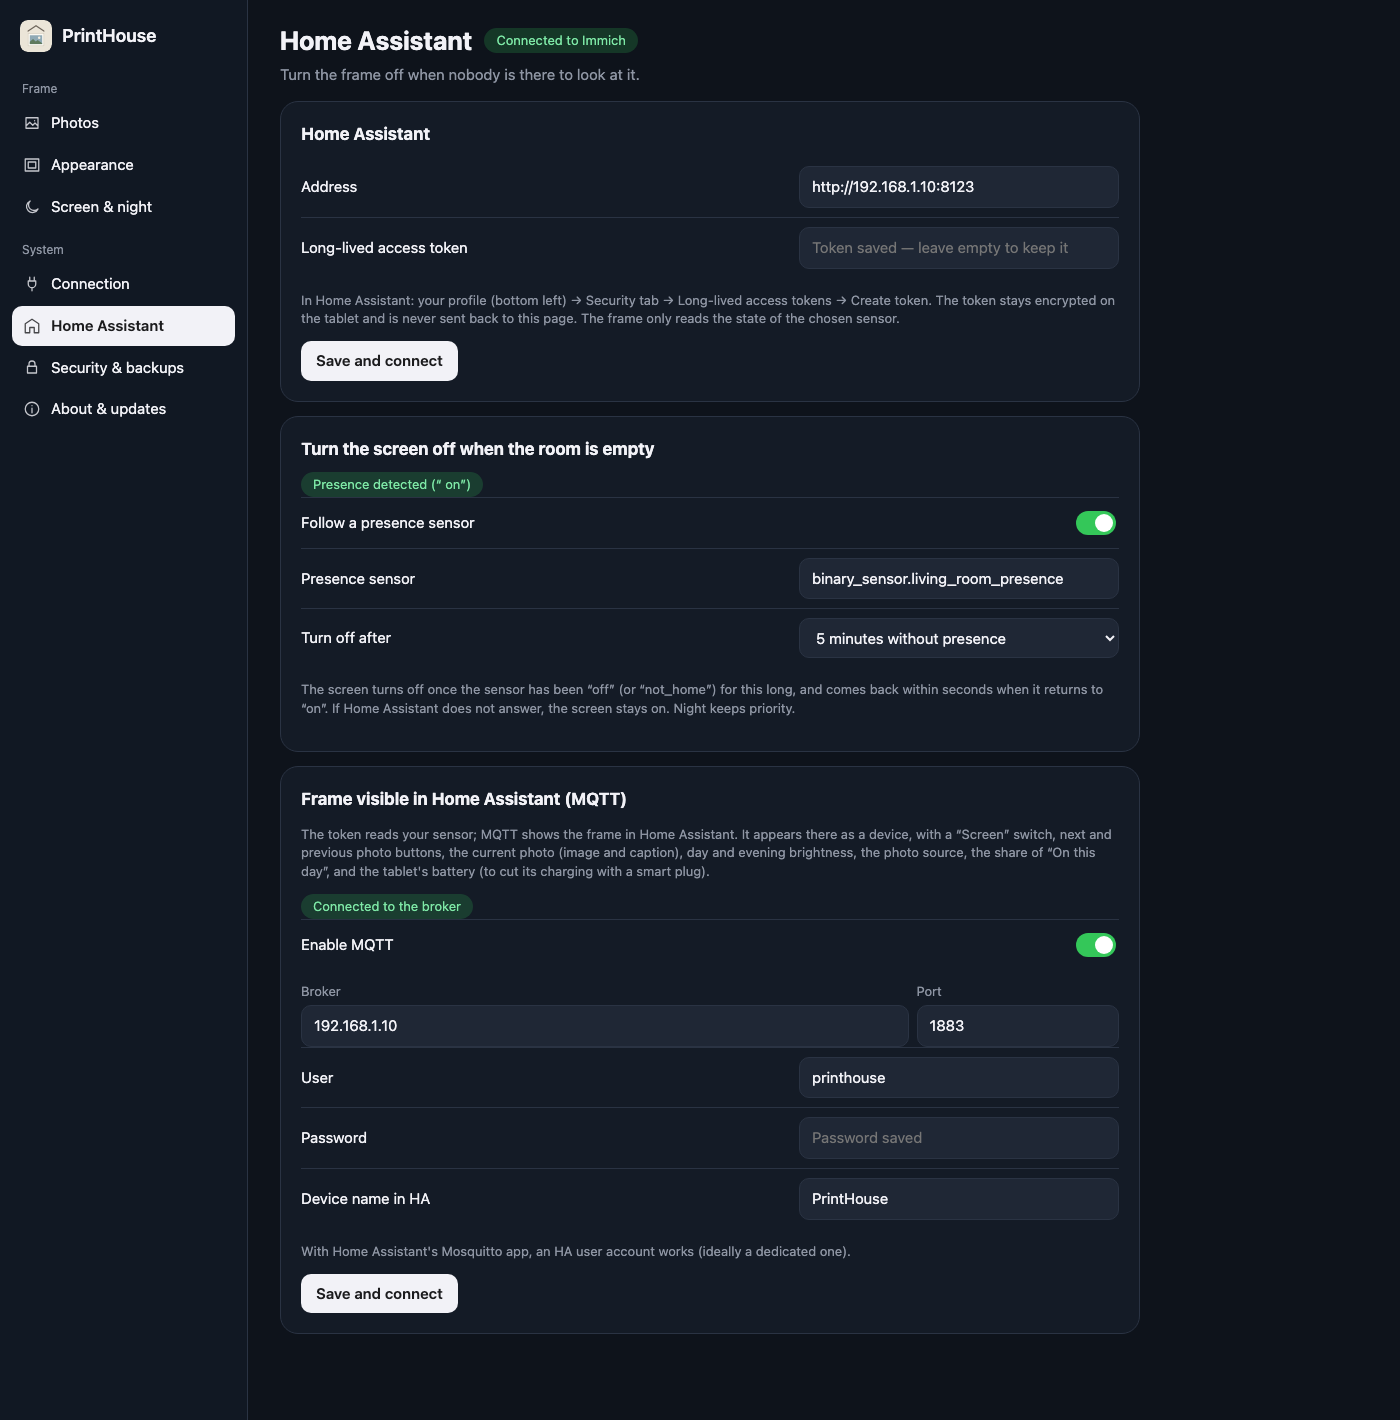
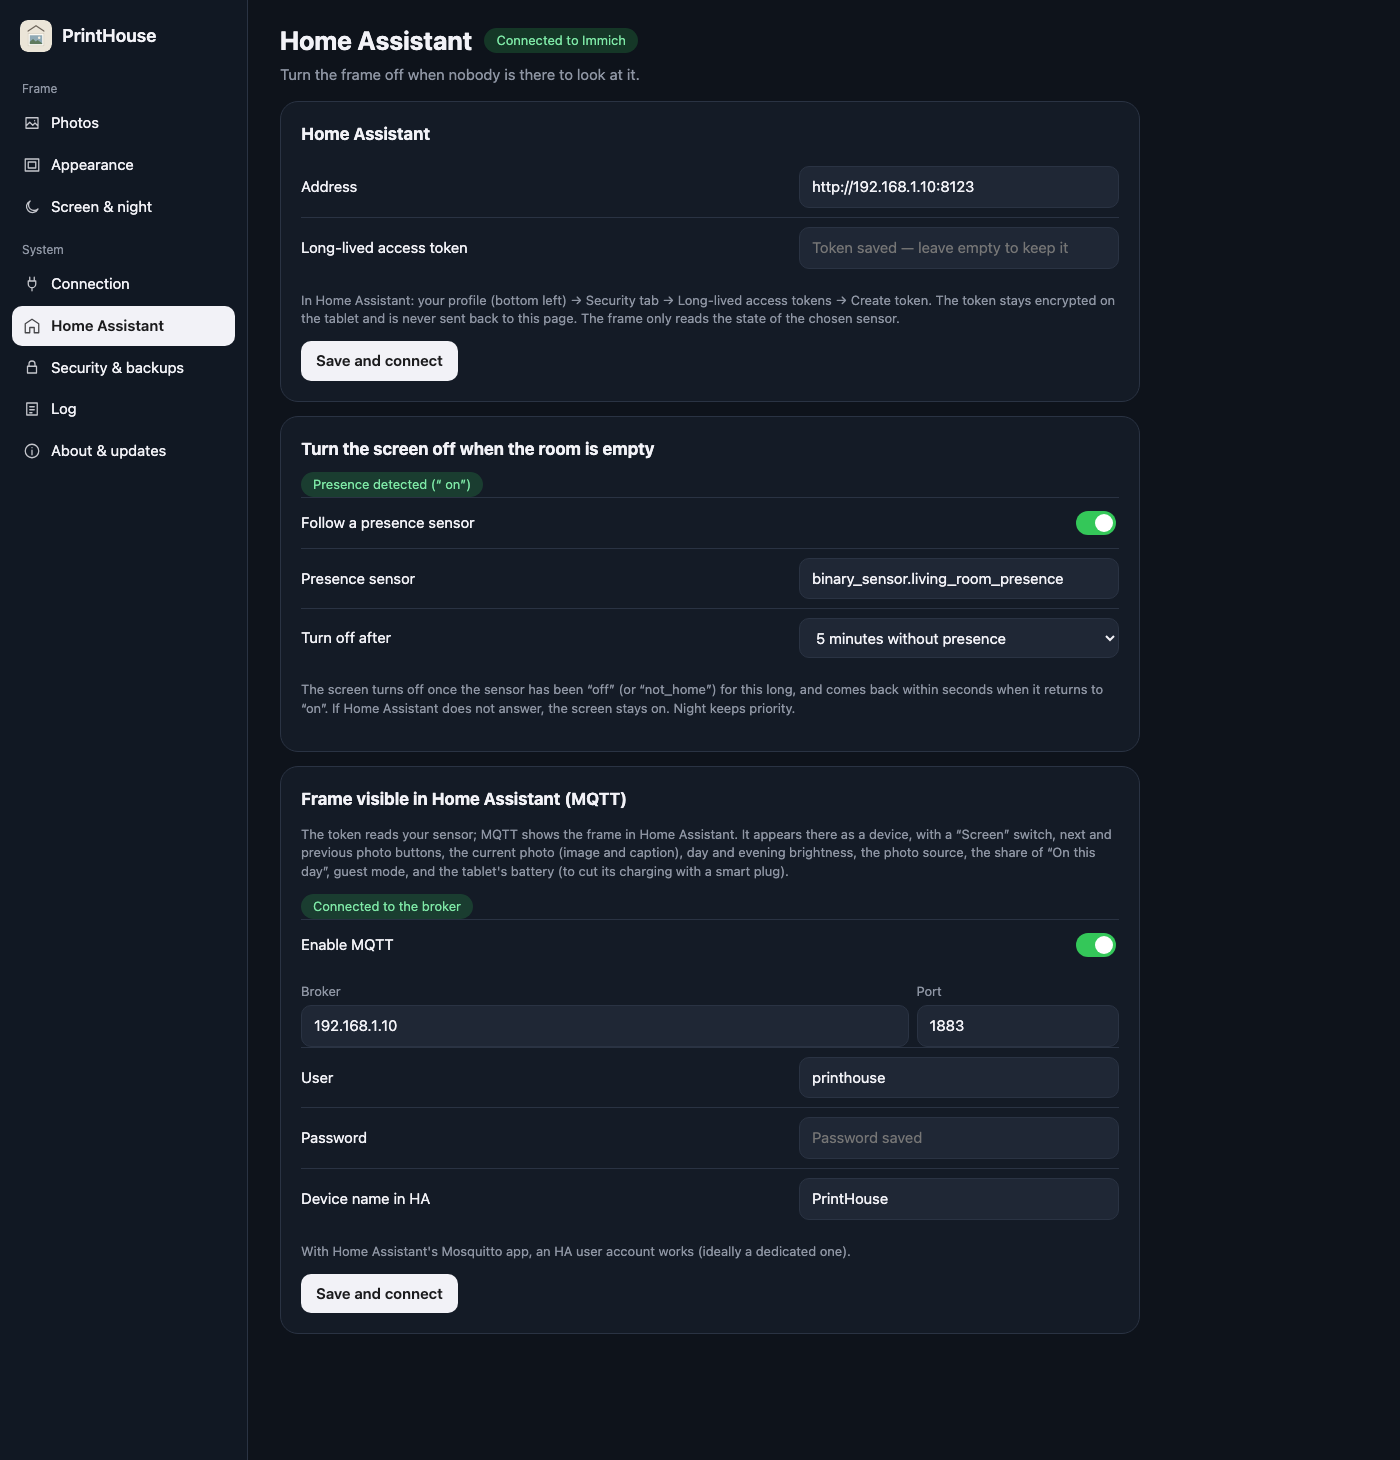
Docs for 2026.11.3: themes, lists that add up, troubleshooting

diff --git a/docs/GUIDE.md b/docs/GUIDE.md
@@ -54,6 +54,9 @@ shows the address of its web settings page.
    | `asset.read` | Finding photos, reading their date and place |
    | `asset.view` | Displaying the images |
    | `album.read` | Listing albums and showing photos from chosen albums |
+
+   Themes ("dog", "landscape") need no extra permission, but they rely on Immich's smart
+   search, so machine learning must be enabled on your server.
    | `person.read` | Optional — choosing people, ages, and names in photo details |
    | `asset.update` | Optional — adding a photo to favourites from the frame |
    | `memory.read` | Optional — "On this day" in a single request instead of about fifty |
@@ -95,7 +98,7 @@ from the web page.
 
 The tablet serves its own settings page at `http://<tablet address>:8080` for as long as
 PrintHouse is running. The address is shown at the bottom of the tablet's settings screen and
-in **About & updates**. Add `#photos`, `#look`, `#screen`, `#conn`, `#ha`, `#security` or
+in **About & updates**. Add `#photos`, `#look`, `#screen`, `#conn`, `#ha`, `#security`, `#log` or
 `#about` to open a section directly.
 
 Every change is saved as you make it and applies to the frame right away. Sections with a
@@ -266,7 +269,7 @@ broker, user and password. The frame then appears under the MQTT integration as 
 | Day brightness, Evening brightness | Numbers | 1–100 % |
 | Battery, Charging | Sensor, binary sensor | The tablet's battery level and whether it is charging |
 | Guest mode | Switch | Limits the frame to the guest album |
-| Photo source | Select | Whole library, favourites, chosen albums |
+| Photo source | Select | Whole library, or favourites only |
 | On this day | Select | Never, 1 photo in 4, 1 in 2, memories only |
 
 Entity names follow the frame's language. An example automation that shows only memories on a
@@ -369,6 +372,9 @@ time you must allow PrintHouse to install apps. After an update the frame restar
 | The screen turns off while you are in the room | The sensor is a motion sensor. Use a presence sensor or a longer delay |
 | You wonder why the frame was off, or slow | Open the **Log** section of the settings page |
 | The frame is black when you walk in | The presence sensor has not noticed you yet. Touch the frame, or wait a few seconds |
+| A theme brings unrelated photos | Keep fewer photos per theme, word the theme as Immich's own search understands it, and double-tap intruders to set them aside |
+| "Immich's content search is not answering" under Themes | Machine learning is off or busy on the Immich server. People and albums keep working meanwhile |
+| The dog and the landscapes never show | Choosing people shows only photos with those people. Add themes or albums: the lists add up |
 | The same few photos keep coming back | The filters (albums, people, period, not-a-photo) leave few photos to choose from |
 | The update asks to "allow from this source" | Normal the first time: allow it on the tablet, then send the file again |
 | The settings page does not open | PrintHouse must be running; check the address in the tablet's settings screen. The address can change if your router does not reserve it |
